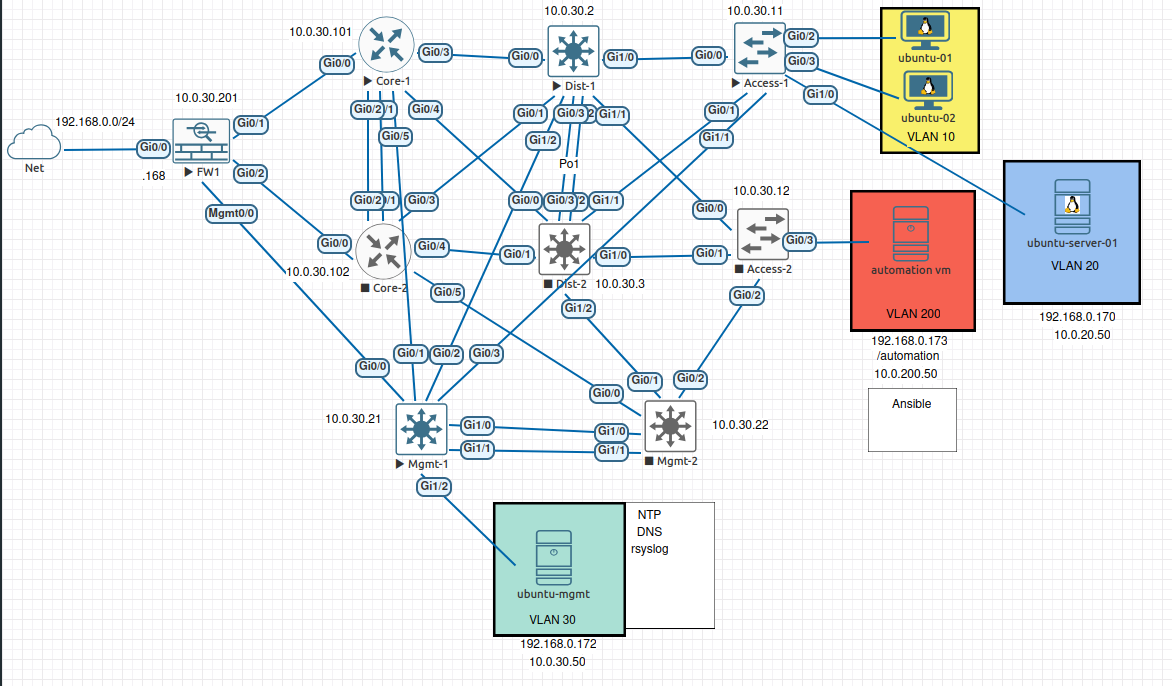
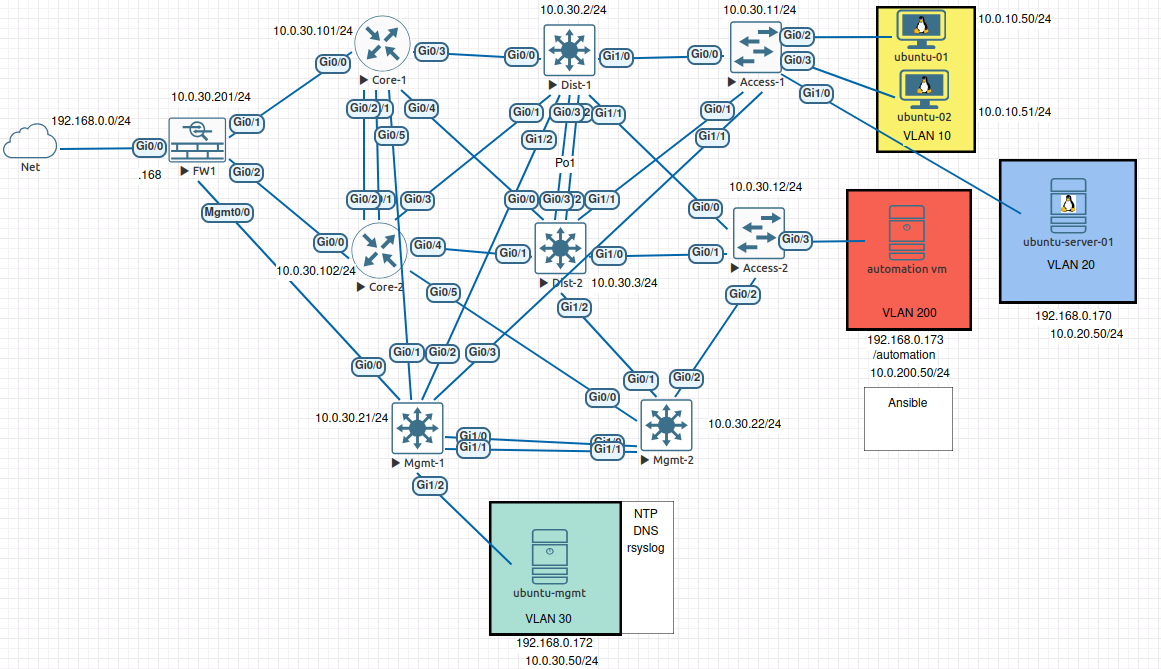
readme update

Changed region(s): [[0.0, 0.0, 0.9922, 1.0], [0.7442, 0.6577, 0.7752, 0.6876]]

diff --git a/README.md b/README.md
@@ -27,16 +27,13 @@ The project explores how **AI, network telemetry, and automation** can work toge
 | Automation tools | Python 3.10, Ansible 2.17 |
 | AI platform | Local LLMs with Ollama planned for integration |
 
-## Lab Topology
+## Lab Topology for AdminLan
 
-| Device | IP address | Role |
-|---|---|---|
-| vManage | `10.0.200.10` | Management and REST API |
-| vSmart | `10.0.200.11` | Control plane |
-| vBond | `10.0.200.12` | Orchestration |
-| Automation VM | `10.0.200.51` | Python and Ansible |
-| BR_IN | `10.255.1.1` | Branch router, site 101 |
-| BR_MEX | `10.255.1.2` | Branch router, site 102 |
+Layer 2, layer 3 devices and management server in 10.0.30.0/24 VLAN 30
+Automation VM in 10.0.200.0/24 in VLAN 200
+Ubuntu server in 10.0.20.0/24 in VLAN 20
+Ubuntu clients in 10.0.10.0/24 in VLAN 10
+
 
 ## Current Implementation
 
